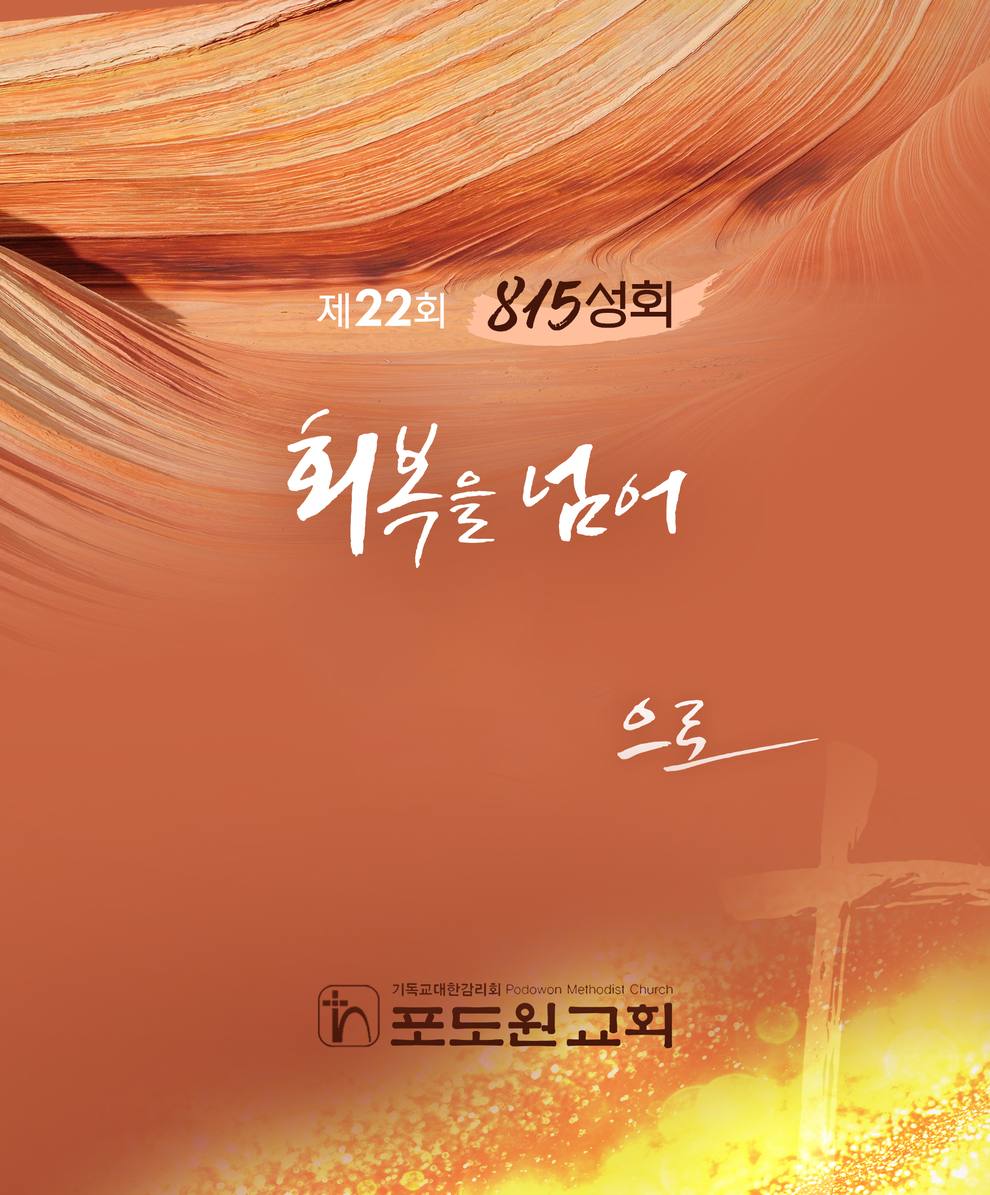
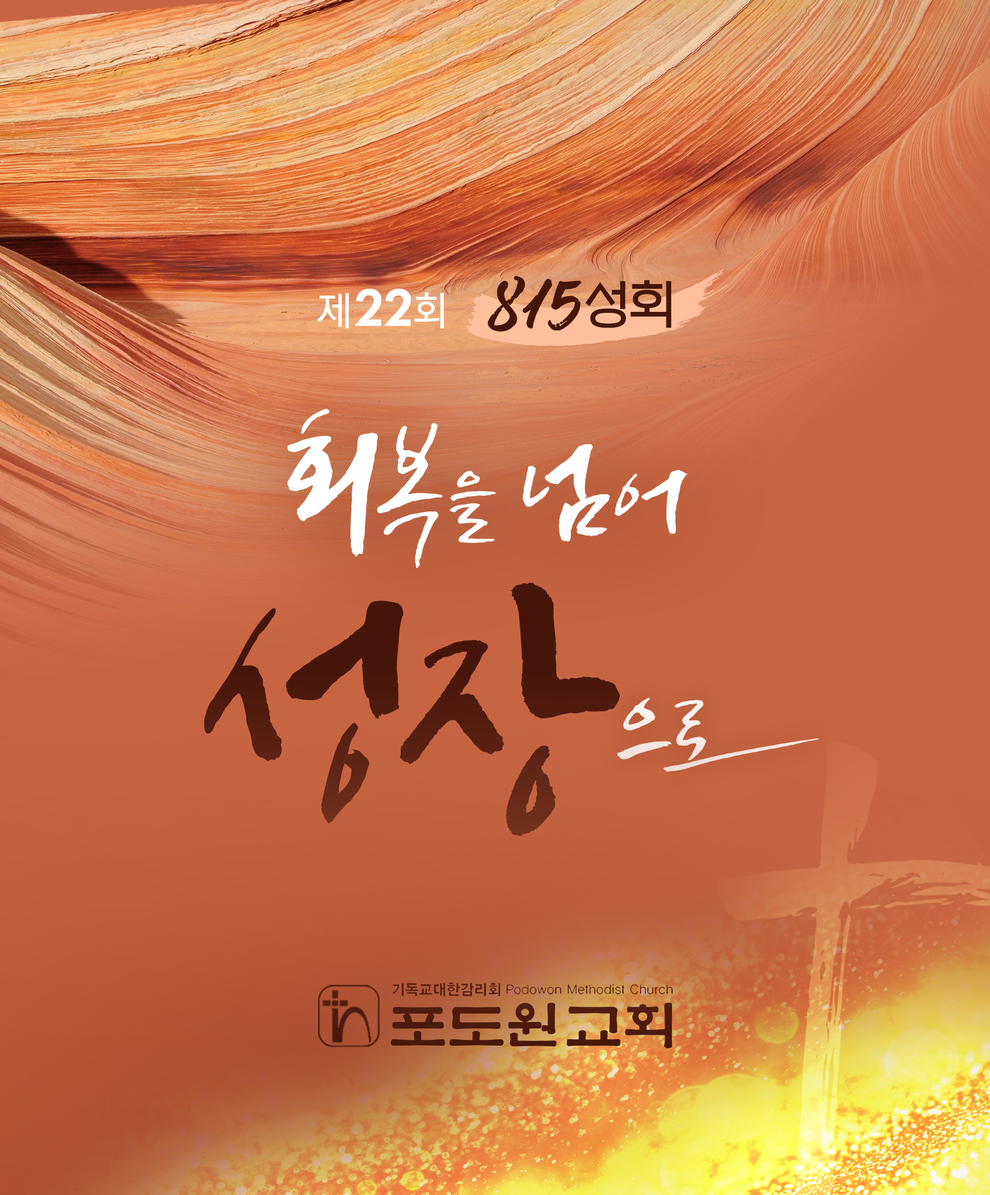
변경

Changed region(s): [[0.2185, 0.4671, 0.6243, 0.7162], [0.1873, 0.5917, 0.2185, 0.6228]]

diff --git a/new.html b/new.html
@@ -68,14 +68,11 @@
             <div class="row justify-content-center">
                 <div class="col-lg-8 text-center">
                     <img src="asset/image/815_main.jpg" class="mainImage">
-                            <div class="uk-card uk-card-body" uk-scrollspy="cls: uk-animation-slide-left; repeat: true" style="position: absolute; top:11%; right: 50px; 
-                                                width: 100%;">
-                                <img src="asset/image/815문구.png" class="imgtext" />
-                            </div>
+                          
                     <img src="asset/image/815_2.jpg" class="Image2">
                     <img src="asset/image/815_1.jpg" class="Image1">
                             <!-- <div class="container text-center"> -->
-                                <a class="btn btn-light btn-xl"style="margin-right: 50px; margin-top:775px; position:absolute" href="http://kko.to/p7CFiiYM0L">네비게이션 열기</a>
+                               
                             <!-- </div> -->
                                     <div id="map" style="height: 400px;"></div>
                                     <script type="text/javascript"
